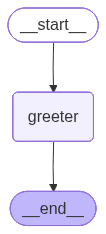
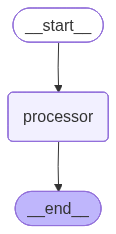
implemented 5 simple graphs

diff --git a/langgraph_agents/conditionalGraph.py b/langgraph_agents/conditionalGraph.py
@@ -1,0 +1,56 @@
+from typing import TypedDict
+from langgraph.graph import StateGraph , START , END
+
+class AgentState(TypedDict):
+    number1:int
+    operation: str
+    number2: int
+    result: int
+
+def adder(state:AgentState)->AgentState:
+    """This node adds two numbers together"""
+
+    state['result'] = state['number1'] + state['number2']
+    return state
+
+def subtractor(state:AgentState)->AgentState:
+    """This node subtracts two numbers"""
+
+    state['result'] = state['number1'] - state['number2']
+    return state
+
+def decide_next_node(state:AgentState)->AgentState:
+    """This node select the next node of the graph"""
+
+    if state['operation'] == '+':
+        return "addition_operation"
+    elif state['operation'] == '-':
+        return "subtraction_operation"
+    
+
+graph = StateGraph(AgentState)
+
+graph.add_node("add_node", adder)
+graph.add_node("subtract_node", subtractor) 
+graph.add_node("router", lambda state:state)
+
+graph.add_edge(START , "router")
+
+graph.add_conditional_edges("router",
+                            decide_next_node,
+                            {
+                                "addition_operation": "add_node",
+                                "subtraction_operation": "subtract_node"
+                            }
+                            )
+
+graph.add_edge("add_node", END)
+graph.add_edge("subtract_node", END)
+
+app = graph.compile()
+
+result = app.invoke({"number1": 10, "operation": "+", "number2": 5})
+print(result["result"])
+
+
+

diff --git a/langgraph_agents/loopingGraph.py b/langgraph_agents/loopingGraph.py
@@ -1,0 +1,53 @@
+
+
+import random
+from typing import TypedDict, List
+from langgraph.graph import StateGraph, START, END
+
+class AgentState(TypedDict):
+    name: str
+    number: List[int]
+    counter: int
+
+def greeting_node(state: AgentState) -> AgentState:
+    """This node generates a greeting message"""
+    state['name'] = f"Hello {state['name']} !"
+    return state
+
+def random_node(state: AgentState) -> AgentState:
+    """This node does something random"""
+    state['counter'] += 1
+    state["number"].append(random.randint(0, 10))
+    return state
+
+def should_continue(state: AgentState) -> str:
+    """This node decides whether to continue the loop or not"""
+    if state['counter'] < 5:
+        print("Entering loop iteration", state['counter'])
+        return "loop"
+    else:
+        return "exit"  # Fixed: Matches the dictionary key
+
+graph = StateGraph(AgentState)
+
+graph.add_node("greeting", greeting_node)
+graph.add_node("random", random_node)
+
+graph.set_entry_point("greeting")
+graph.add_edge("greeting", "random")
+
+graph.add_conditional_edges(
+    "random",
+    should_continue,
+    {
+        "loop": "random",
+        "exit": END
+    }
+)
+# Fixed: Deleted the conflicting graph.add_edge("random", END)
+
+app = graph.compile()
+
+result = app.invoke({"name": "Alice", "number": [], "counter": 0})
+
+print("Generated numbers:", result["number"])

diff --git a/langgraph_agents/MultipleInputGraph.py b/langgraph_agents/MultipleInputGraph.py
@@ -1,0 +1,37 @@
+from typing import TypedDict , List
+from langgraph.graph import StateGraph 
+
+class AgentState(TypedDict):
+    values: List[int]
+    name: str
+    results: str
+
+
+def process_values(state: AgentState)-> AgentState:
+    """This function handles multiple different inputs"""
+
+    state["results"] = f"Hello {state['name']}! The sum of your values is {sum(state['values'])}."
+    return state
+
+graph = StateGraph(AgentState)
+
+graph.add_node("processor", process_values)
+graph.set_entry_point("processor")
+graph.set_finish_point("processor")
+
+app = graph.compile()
+
+from IPython.display import Image,display
+
+# --- THE NEW WAY TO GET THE IMAGE ---
+png_bytes = app.get_graph().draw_mermaid_png()
+
+with open("graph.png", "wb") as f:
+    f.write(png_bytes)
+    
+print("Graph saved to graph.png!")
+# ------------------------------------
+
+result = app.invoke({"name": "Alice", "values": [1, 2, 3, 4]})
+
+print(result["results"])

diff --git a/langgraph_agents/exercise1.py b/langgraph_agents/exercise1.py
@@ -1,0 +1,37 @@
+from typing import Dict , TypedDict
+from langgraph.graph import StateGraph
+
+class AgentState(TypedDict): # our state schema 
+    message : str
+    name : str
+
+
+def complement_node(state : AgentState) -> AgentState:
+    """Simple node that generates a greeting message."""
+
+    state['message'] = state['name']+ ", You're doing an amazing job learning LangGraph !"
+
+    return state
+
+graph = StateGraph(AgentState)
+
+graph.add_node("complementor", complement_node)
+
+graph.set_entry_point("complementor")
+graph.set_finish_point("complementor")
+
+app = graph.compile()
+
+from IPython.display import Image,display
+
+# --- THE NEW WAY TO GET THE IMAGE ---
+png_bytes = app.get_graph().draw_mermaid_png()
+
+with open("graph.png", "wb") as f:
+    f.write(png_bytes)
+    
+print("Graph saved to graph.png!")
+# ------------------------------------
+result = app.invoke({"name": "Bob"})
+
+print(result["message"])

diff --git a/langgraph_agents/sequentialGraph.py b/langgraph_agents/sequentialGraph.py
@@ -1,0 +1,34 @@
+from typing import TypedDict , List
+from langgraph.graph import StateGraph 
+
+class AgentState(TypedDict):
+    name : str
+    age: str
+    final: str
+
+def first_node(state : AgentState)->AgentState:
+    """This is the first node of our sequence"""
+
+    state['final'] = f"Hi ! {state['name']}"
+    return state
+
+def second_node(state : AgentState)->AgentState:
+    """This is the second node of our sequence"""
+
+    state['final'] += f", you are {state['age']} years old !"
+    return state
+
+graph = StateGraph(AgentState)
+
+graph.add_node("first", first_node)
+graph.add_node("second", second_node)
+
+graph.set_entry_point("first")
+graph.add_edge("first", "second")
+graph.set_finish_point("second")
+
+app = graph.compile()
+
+result = app.invoke({"name": "Alice", "age": "30"})
+
+print(result["final"])